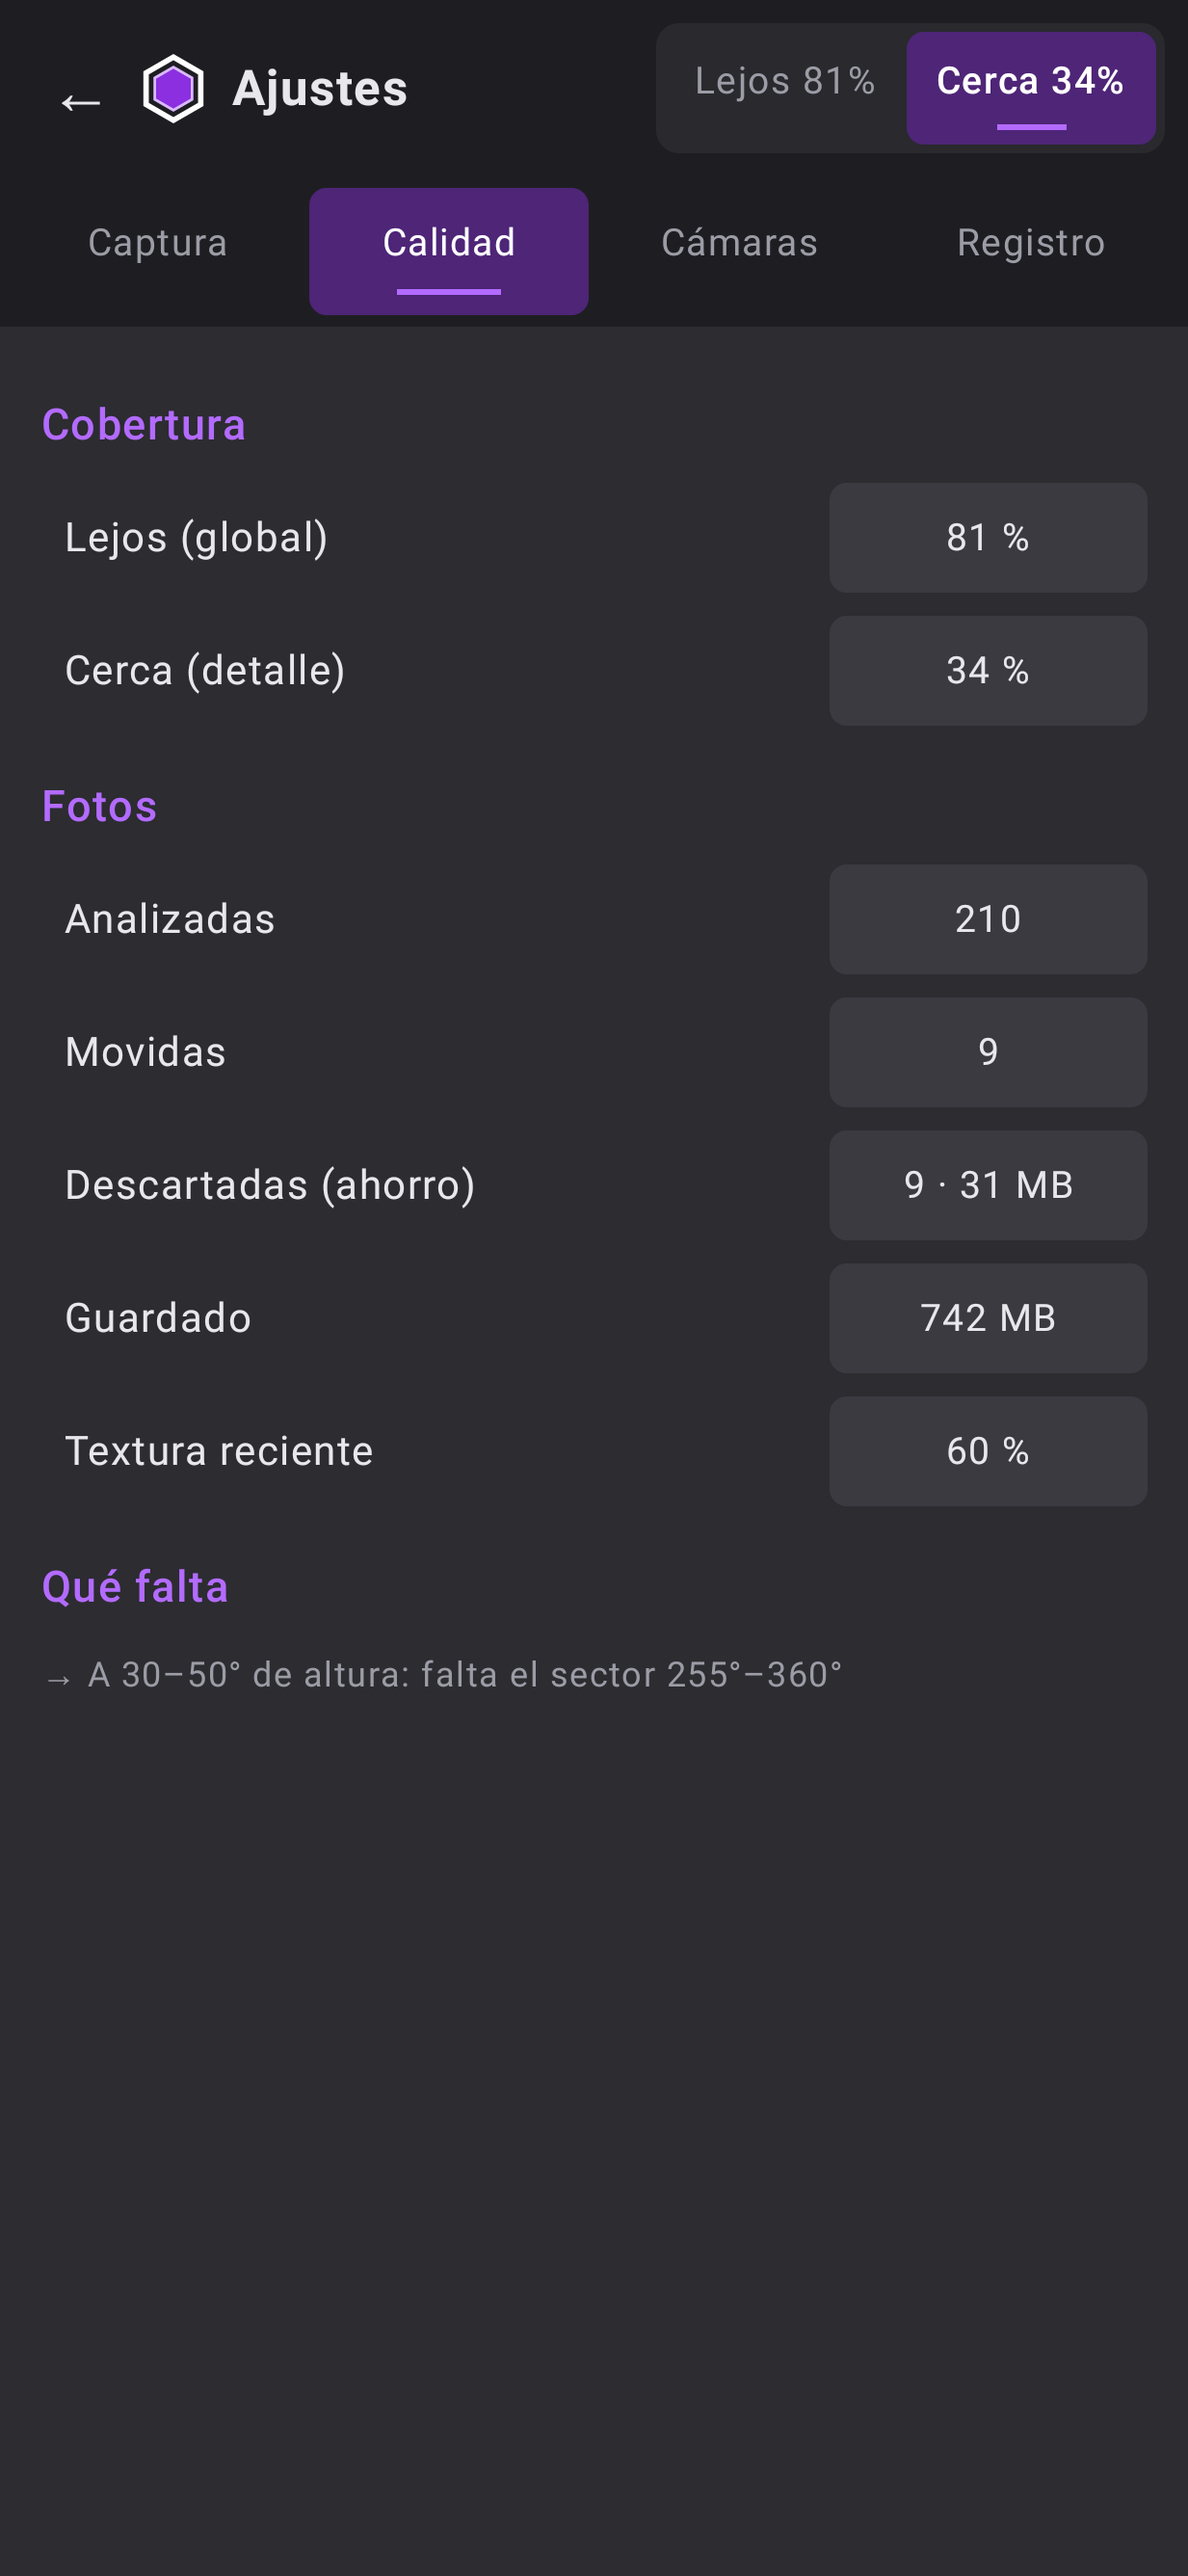
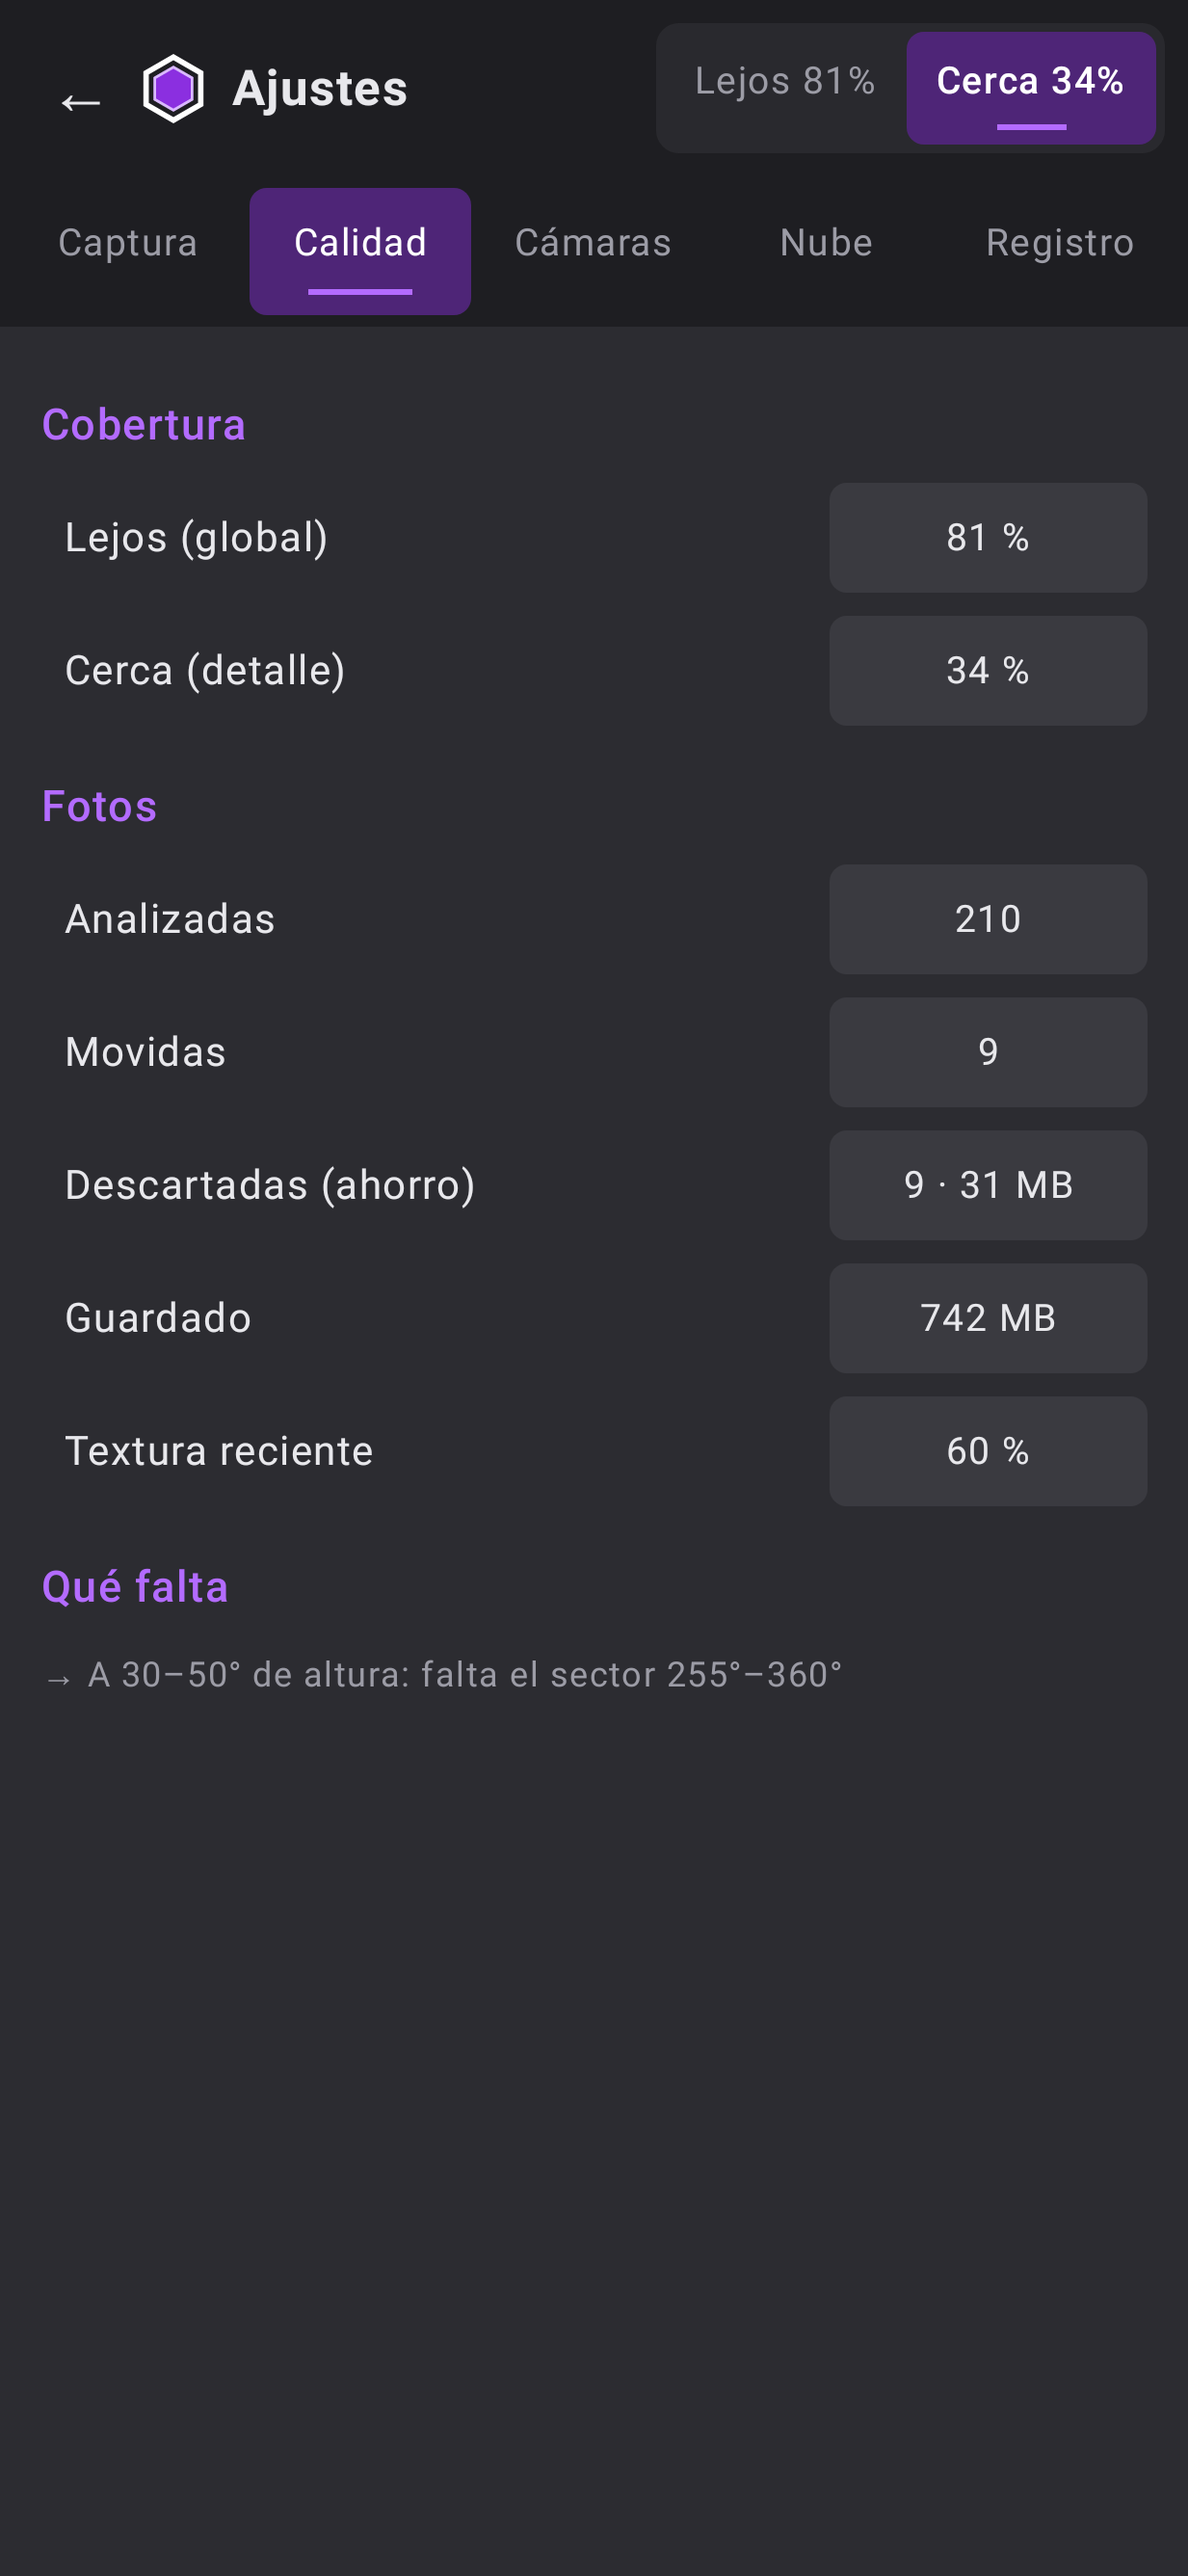
End-to-end test: the app's CloudClient against the real server over HTTPS
Self-signed certificate, wrong key rejected (401), upload cut after the first
chunk and resumed from what the server reports, job completed and result downloaded.
Skipped if the machine lacks python3/openssl.

Claude-Session: https://claude.ai/code/session_01QadJfKzbw9ynwc1fqLJ3m8

Changed region(s): [[0.0616, 0.0621, 0.5239, 0.1242], [0.8321, 0.0932, 0.9246, 0.1242], [0.6472, 0.0932, 0.678, 0.1242]]

diff --git a/app/src/test/java/com/tisma/scanner/cloud/CloudClientServerTest.kt b/app/src/test/java/com/tisma/scanner/cloud/CloudClientServerTest.kt
@@ -1,0 +1,104 @@
+package com.tisma.scanner.cloud
+
+import org.junit.Assert.assertEquals
+import org.junit.Assert.assertTrue
+import org.junit.Assume.assumeTrue
+import org.junit.Test
+import org.junit.runner.RunWith
+import org.robolectric.RobolectricTestRunner
+import org.robolectric.annotation.Config
+import java.io.File
+import java.io.IOException
+import java.net.ServerSocket
+import java.security.KeyStore
+import java.security.cert.CertificateFactory
+import java.util.concurrent.TimeUnit
+import javax.net.ssl.HttpsURLConnection
+import javax.net.ssl.SSLContext
+import javax.net.ssl.TrustManagerFactory
+
+/**
+ * Prueba de extremo a extremo del protocolo app <-> servidor: el CloudClient real de la app
+ * contra el tisma_server.py real, por HTTPS (certificado de prueba), con una subida cortada
+ * a mitad que se reanuda. Se salta si en la máquina no hay python3/openssl.
+ */
+@RunWith(RobolectricTestRunner::class)
+@Config(sdk = [34])
+class CloudClientServerTest {
+
+    private fun sh(vararg cmd: String, dir: File) {
+        val p = ProcessBuilder(*cmd).directory(dir).redirectErrorStream(true).start()
+        val out = p.inputStream.bufferedReader().readText()
+        check(p.waitFor(120, TimeUnit.SECONDS) && p.exitValue() == 0) { "${cmd.joinToString(" ")}: $out" }
+    }
+
+    private fun available(vararg cmd: String) = runCatching { ProcessBuilder(*cmd).start().waitFor() == 0 }.getOrDefault(false)
+
+    @Test fun uploadResumesAndJobCompletesOverHttps() {
+        val serverPy = File("../server/tisma_server.py").canonicalFile
+        assumeTrue("hace falta python3, openssl y el servidor", available("python3", "--version") && available("openssl", "version") && serverPy.exists())
+        val dir = kotlin.io.path.createTempDirectory("tisma_e2e").toFile()
+        val port = ServerSocket(0).use { it.localPort }
+        sh("openssl", "req", "-x509", "-newkey", "rsa:2048", "-nodes", "-keyout", "key.pem", "-out", "cert.pem",
+            "-days", "1", "-subj", "/CN=localhost", "-addext", "subjectAltName=DNS:localhost", dir = dir)
+        val key = "clave-e2e-" + System.nanoTime()
+        File(dir, "cfg.json").writeText("""{"host":"127.0.0.1","port":$port,"api_keys":["$key"],"data_dir":"datos",
+            "chunk_mb":1,"allow_without_colmap":true,"colmap":"no-existe",
+            "tls_cert":"${File(dir, "cert.pem").path}","tls_key":"${File(dir, "key.pem").path}"}""")
+        sh("python3", "-c", "import sys; sys.path.insert(0, '${serverPy.parent}'); from pathlib import Path; " +
+            "import tisma_server; tisma_server.make_demo_scan(Path('${dir.path}'))", dir = dir)
+        val zip = File(dir, "scan_demo.zip")
+
+        // Confiar sólo en el certificado de prueba (como haría Android con el de tismaservidores.net).
+        val ks = KeyStore.getInstance(KeyStore.getDefaultType()).apply {
+            load(null, null)
+            setCertificateEntry("e2e", CertificateFactory.getInstance("X.509").generateCertificate(File(dir, "cert.pem").inputStream()))
+        }
+        val tmf = TrustManagerFactory.getInstance(TrustManagerFactory.getDefaultAlgorithm()).apply { init(ks) }
+        val previous = HttpsURLConnection.getDefaultSSLSocketFactory()
+        HttpsURLConnection.setDefaultSSLSocketFactory(SSLContext.getInstance("TLS").apply { init(null, tmf.trustManagers, null) }.socketFactory)
+
+        val server = ProcessBuilder("python3", serverPy.path, "--config", File(dir, "cfg.json").path)
+            .directory(dir).redirectErrorStream(true).redirectOutput(File(dir, "server.log")).start()
+        try {
+            val client = CloudClient("https://localhost:$port", key)
+            var up = false
+            repeat(60) { if (!up) { up = runCatching { client.health() != null }.getOrDefault(false); if (!up) Thread.sleep(250) } }
+            assertTrue("el servidor no arrancó: " + File(dir, "server.log").readText(), up)
+
+            // Clave incorrecta: rechazada.
+            val bad = runCatching { CloudClient("https://localhost:$port", "mala").create(10, "x") }.exceptionOrNull()
+            assertEquals(401, (bad as CloudClient.HttpError).code)
+
+            val (id, _) = client.create(zip.length(), "e2e")
+            val chunk = 64 * 1024     // trozos pequeños para que el escaneo de prueba ocupe varios
+            // Subida cortada tras el primer trozo (como si se fuera la cobertura)…
+            var chunksSent = 0
+            val cut = runCatching {
+                client.upload(id, zip, chunk, onProgress = { _, _ -> chunksSent++ }, isCancelled = { chunksSent >= 1 })
+            }.exceptionOrNull()
+            assertTrue(cut is IOException)
+            val partial = client.status(id).getLong("received")
+            assertTrue("debe haber recibido algo pero no todo", partial in 1 until zip.length())
+            // …y reanudada: sigue desde lo que el servidor ya tiene.
+            client.upload(id, zip, chunk, onProgress = { _, _ -> })
+            var state = ""
+            repeat(240) {
+                if (state != "done" && state != "error") { state = client.status(id).getString("state"); Thread.sleep(250) }
+            }
+            assertEquals("done", state)
+            val log = File(dir, "log.txt")
+            client.download(id, "log.txt", log)
+            assertTrue(log.readText().contains("[hdr]"))
+        } finally {
+            server.destroy()
+            HttpsURLConnection.setDefaultSSLSocketFactory(previous)
+            dir.deleteRecursively()
+        }
+    }
+
+    @Test fun refusesPlainHttp() {
+        val e = runCatching { CloudClient("http://tismaservidores.net", "k") }.exceptionOrNull()
+        assertTrue(e is IllegalArgumentException)
+    }
+}
